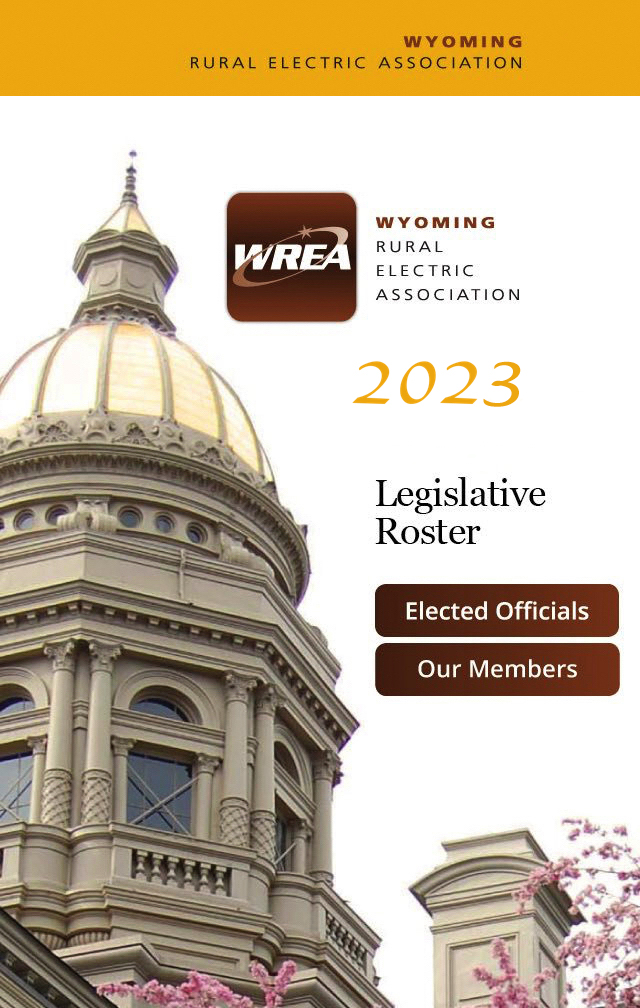
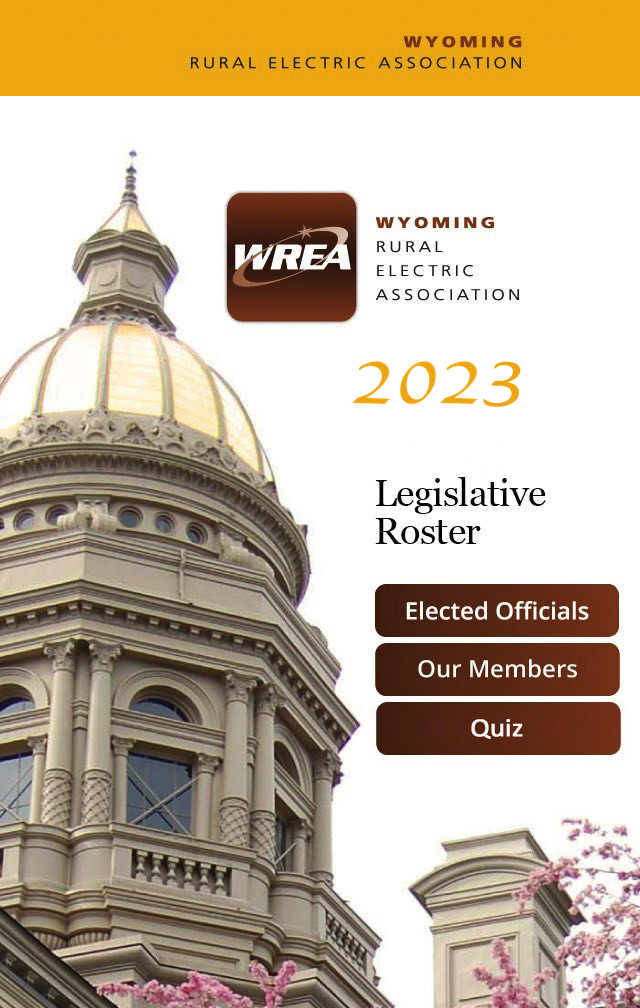
Version 3.6.2, addition of the quiz

Changed region(s): [[0.5625, 0.6766, 0.9688, 0.7688]]

diff --git a/LegGuide/Classes/View Controllers/AboutViewController.m b/LegGuide/Classes/View Controllers/AboutViewController.m
@@ -27,6 +27,7 @@
 - (IBAction)backButtonPressed:(id)sender;
 - (IBAction)legislatureButtonPressed:(id)sender;
 - (IBAction)memberSystemsButtonPressed:(id)sender;
+- (IBAction)quizButtonPressed:(id)sender;
 - (IBAction)legContactsButtonPressed:(id)sender;
 - (IBAction)websiteButtonPressed:(id)sender;
 - (IBAction)phoneNumberButtonPressed:(id)sender;
@@ -59,6 +60,13 @@
     [self.navigationController pushViewController:plvc animated:YES];
     
 }
+
+- (IBAction)quizButtonPressed:(UITapGestureRecognizer *)sender {
+    NSURL *url = [NSURL URLWithString:@"https://www.proprofs.com/quiz-school/ugc/story.php?title=wreas-knowyourlegislator-quiz"];
+    [[UIApplication sharedApplication] openURL:url options:@{} completionHandler:nil];
+}
+
+
 
 - (IBAction)legContactsButtonPressed:(id)sender {
         

diff --git a/LegGuide/Classes/View Controllers/AboutViewController.h b/LegGuide/Classes/View Controllers/AboutViewController.h
@@ -9,6 +9,7 @@
 #import <UIKit/UIKit.h>
 
 @interface AboutViewController : UIViewController
-
+    
+@property (retain, nonatomic) IBOutlet UIButton *quizButtonPressed;
 
 @end
